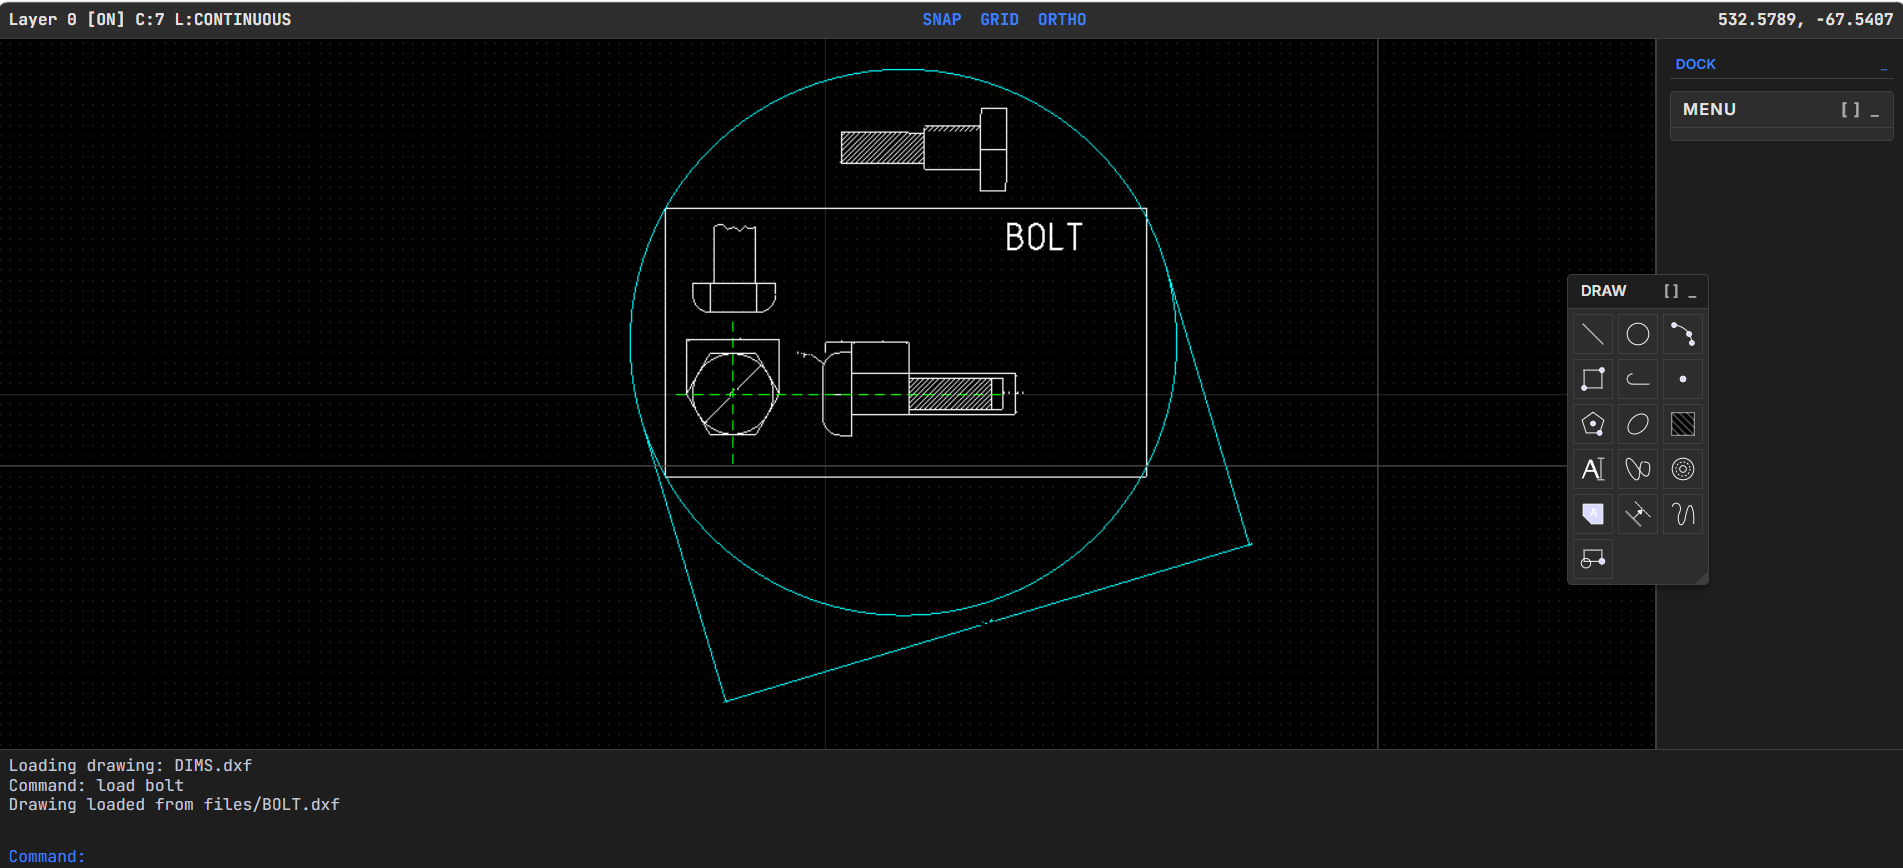
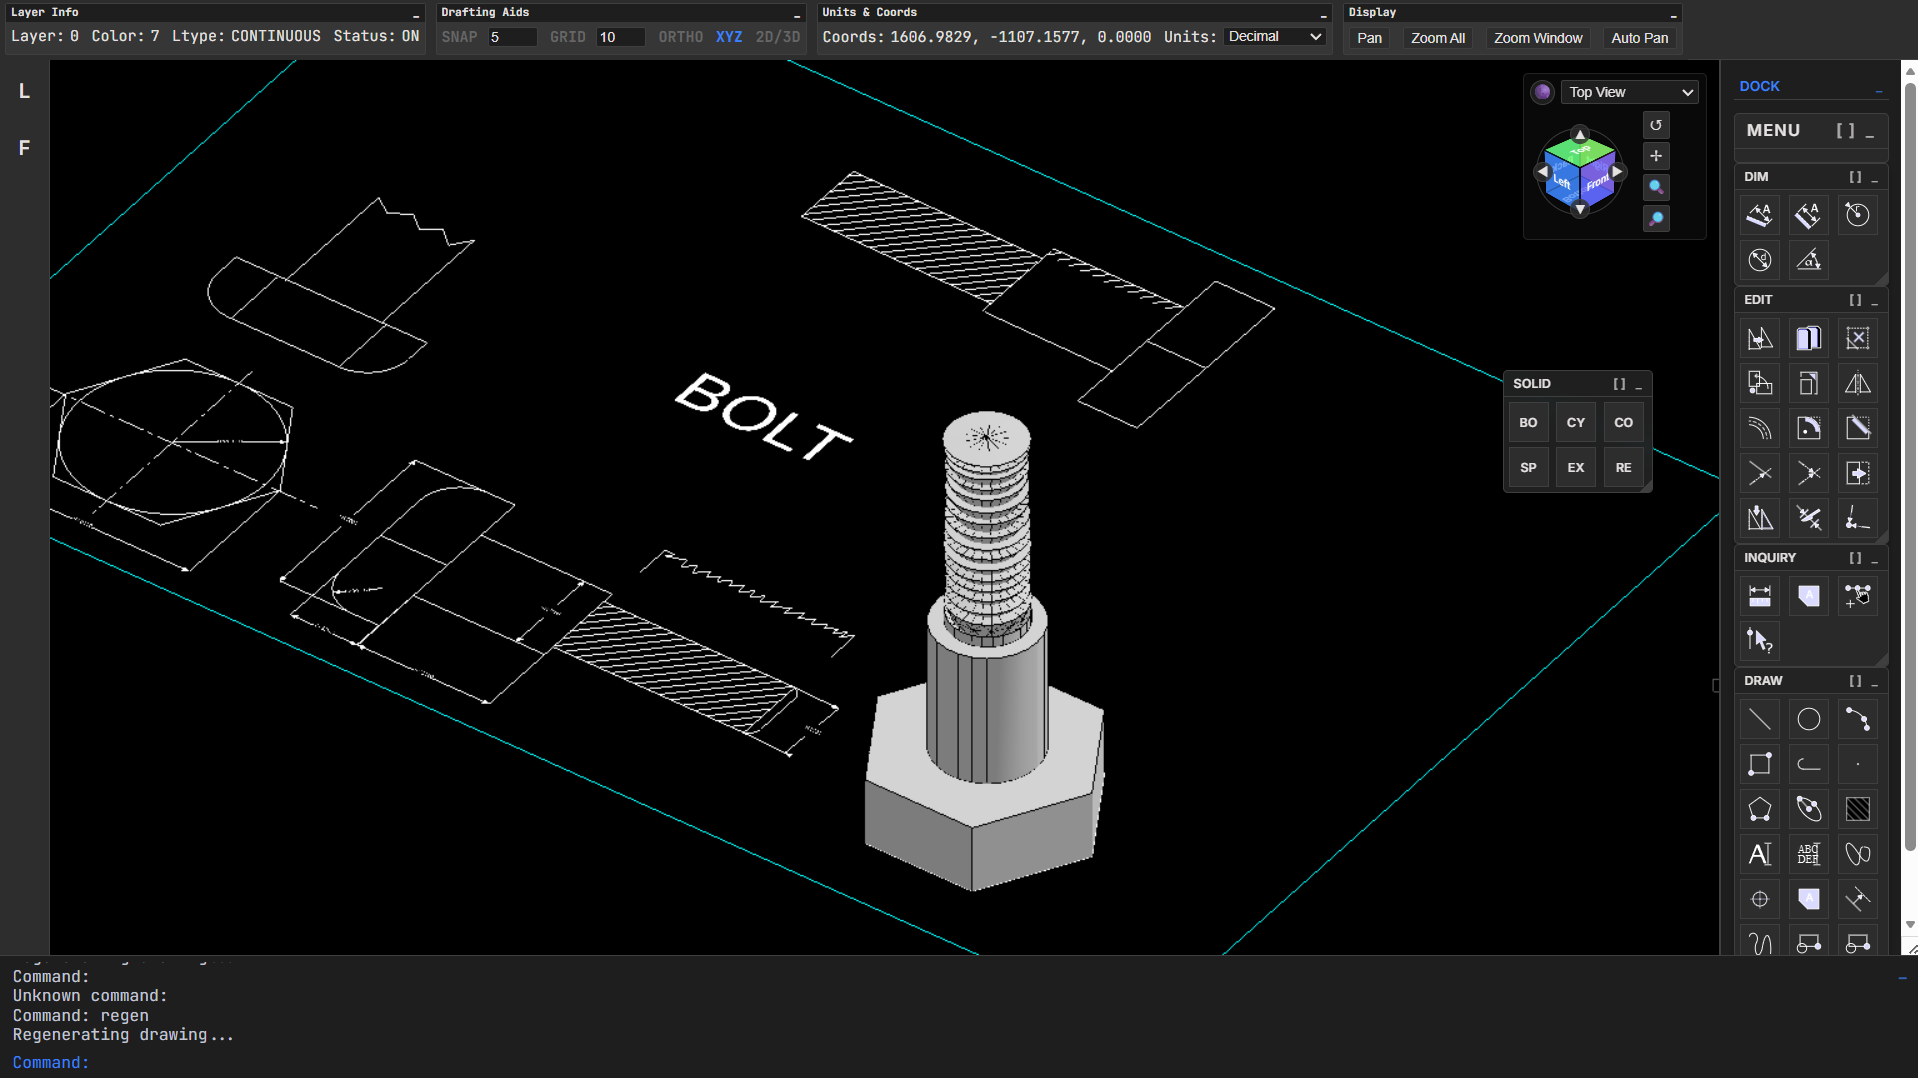
Implement 3D Boolean operations with rotation support

diff --git a/src/core/io/OCCWorker.ts b/src/core/io/OCCWorker.ts
@@ -18,6 +18,62 @@ function releaseShape(entityId: string) {
   }
 }
 
+function applyRotation(shape: any, rot: {x:number, y:number, z:number}, oc: any, center?: {x:number, y:number, z:number}) {
+  if (!rot || (rot.x === 0 && rot.y === 0 && rot.z === 0)) return shape;
+  
+  const transform = new oc.gp_Trsf_1();
+  
+  // 1. Translate to origin
+  const toOrigin = new oc.gp_Trsf_1();
+  const centerPt = center ? center : { x: 0, y: 0, z: 0 };
+  const vecToOrigin = new oc.gp_Vec_4(-centerPt.x, -centerPt.y, -centerPt.z);
+  toOrigin.SetTranslation_1(vecToOrigin);
+  
+  // 2. Rotate around origin
+  const rotTrsf = new oc.gp_Trsf_1();
+  
+  const rotX = new oc.gp_Trsf_1();
+  const originPnt = new oc.gp_Pnt_3(0,0,0);
+  rotX.SetRotation_1(new oc.gp_Ax1_2(originPnt, new oc.gp_Dir_4(1,0,0)), rot.x);
+  
+  const rotY = new oc.gp_Trsf_1();
+  rotY.SetRotation_1(new oc.gp_Ax1_2(originPnt, new oc.gp_Dir_4(0,1,0)), rot.y);
+  
+  const rotZ = new oc.gp_Trsf_1();
+  rotZ.SetRotation_1(new oc.gp_Ax1_2(originPnt, new oc.gp_Dir_4(0,0,1)), rot.z);
+  
+  rotTrsf.Multiply(rotZ);
+  rotTrsf.Multiply(rotY);
+  rotTrsf.Multiply(rotX);
+  
+  // 3. Translate back
+  const toBack = new oc.gp_Trsf_1();
+  const vecToBack = new oc.gp_Vec_4(centerPt.x, centerPt.y, centerPt.z);
+  toBack.SetTranslation_1(vecToBack);
+  
+  // Combine: toBack * rotTrsf * toOrigin
+  transform.Multiply(toBack);
+  transform.Multiply(rotTrsf);
+  transform.Multiply(toOrigin);
+  
+  const brepTransform = new oc.BRepBuilderAPI_Transform_2(shape, transform, true);
+  const newShape = brepTransform.Shape();
+  
+  // Cleanup
+  vecToOrigin.delete();
+  toOrigin.delete();
+  originPnt.delete();
+  rotX.delete();
+  rotY.delete();
+  rotZ.delete();
+  rotTrsf.delete();
+  vecToBack.delete();
+  toBack.delete();
+  transform.delete();
+  
+  return newShape;
+}
+
 self.onmessage = async (e) => {
   const { type, payload, id } = e.data;
 
@@ -503,7 +559,7 @@ self.onmessage = async (e) => {
       self.postMessage({ type: 'error', error: 'Not initialized', id });
       return;
     }
-    const { operation, idA, idB, entityId, deflection } = payload;
+    const { operation, idA, idB, entityId, deflection, rotA, rotB, centerA, centerB } = payload;
     try {
       if (!shapeCache.has(idA)) {
         throw new Error(`Shape not cached for solid A (id: ${idA}). Ensure solid was created in this session.`);
@@ -512,8 +568,11 @@ self.onmessage = async (e) => {
         throw new Error(`Shape not cached for solid B (id: ${idB}).`);
       }
 
-      const shapeA = shapeCache.get(idA);
-      const shapeB = shapeCache.get(idB);
+      const originalShapeA = shapeCache.get(idA);
+      const originalShapeB = shapeCache.get(idB);
+
+      const shapeA = applyRotation(originalShapeA, rotA, oc, centerA);
+      const shapeB = applyRotation(originalShapeB, rotB, oc, centerB);
 
       let boolBuilder: any;
       if (operation === 'fuse') {
@@ -542,12 +601,23 @@ self.onmessage = async (e) => {
       // Section 9: BRepCheck validation
       if (oc.BRepCheck_Analyzer) {
         const analyzer = new oc.BRepCheck_Analyzer(resultShape, true);
-        if (!analyzer.IsValid()) {
+        try {
+          // Check if method exists and is a function
+          const isValidFn = analyzer.IsValid || (analyzer as any).isValid;
+          if (typeof isValidFn === 'function') {
+            if (!isValidFn.call(analyzer)) {
+              analyzer.delete();
+              boolBuilder.delete();
+              throw new Error(`Boolean ${operation} produced an invalid/degenerate shape`);
+            }
+          } else {
+            console.warn(`BRepCheck_Analyzer exists but IsValid is not a function. Methods:`, Object.getOwnPropertyNames(Object.getPrototypeOf(analyzer)));
+          }
+        } catch (e: any) {
+          console.warn(`BRepCheck validation skipped due to error:`, e.message);
+        } finally {
           analyzer.delete();
-          boolBuilder.delete();
-          throw new Error(`Boolean ${operation} produced an invalid/degenerate shape`);
         }
-        analyzer.delete();
       }
 
       if (entityId) {
@@ -560,6 +630,8 @@ self.onmessage = async (e) => {
         resultShape.delete();
       }
       boolBuilder.delete();
+      if (shapeA !== originalShapeA) shapeA.delete();
+      if (shapeB !== originalShapeB) shapeB.delete();
 
       self.postMessage({ type: 'createBoolean', success: true, payload: geometryData, id });
     } catch (error: any) {

diff --git a/src/core/commands/BooleanCommand.ts b/src/core/commands/BooleanCommand.ts
@@ -2,6 +2,7 @@ import { Command, CommandResponse } from "./types"
 import { UnitsConfig, IDocument } from "../model/Document"
 import { Solid3D } from "../model/Solid3D"
 import { OpenCascadeService } from "../io/OpenCascadeService.js"
+import * as THREE from 'three';
 
 export class BooleanCommand implements Command {
   step = 0
@@ -73,7 +74,40 @@ export class BooleanCommand implements Command {
     const deflection = 0.1 / facetres
     
     console.log(`[BooleanCommand] Executing ${this.operation} on A: ${this.idA}, B: ${this.idB}`);
-    return this.occService.createBoolean(this.operation, this.idA, this.idB, id, deflection).then((geometry: any) => {
+    
+    const entityA = doc?.getEntity(this.idA!) as any;
+    const entityB = doc?.getEntity(this.idB!) as any;
+    const rotA = entityA?.rotation || { x: 0, y: 0, z: 0 };
+    const rotB = entityB?.rotation || { x: 0, y: 0, z: 0 };
+
+    const centerA = { x: 0, y: 0, z: 0 };
+    const centerB = { x: 0, y: 0, z: 0 };
+
+    if (entityA && entityA.positions) {
+      const geo = new THREE.BufferGeometry();
+      geo.setAttribute('position', new THREE.Float32BufferAttribute(entityA.positions, 3));
+      geo.computeBoundingBox();
+      const c = geo.boundingBox!.getCenter(new THREE.Vector3());
+      
+      const posA = entityA.position || { x: 0, y: 0, z: 0 };
+      centerA.x = c.x + posA.x;
+      centerA.y = c.y + posA.y;
+      centerA.z = c.z + posA.z;
+    }
+
+    if (entityB && entityB.positions) {
+      const geo = new THREE.BufferGeometry();
+      geo.setAttribute('position', new THREE.Float32BufferAttribute(entityB.positions, 3));
+      geo.computeBoundingBox();
+      const c = geo.boundingBox!.getCenter(new THREE.Vector3());
+      
+      const posB = entityB.position || { x: 0, y: 0, z: 0 };
+      centerB.x = c.x + posB.x;
+      centerB.y = c.y + posB.y;
+      centerB.z = c.z + posB.z;
+    }
+
+    return (this.occService as any).createBoolean(this.operation, this.idA, this.idB, id, deflection, rotA, rotB, centerA, centerB).then((geometry: any) => {
       const positions = Array.from(geometry.getAttribute('position').array) as number[]
       const indices = Array.from(geometry.getIndex()?.array || []) as number[]
       

diff --git a/src/core/io/OCCWorkerClient.ts b/src/core/io/OCCWorkerClient.ts
@@ -60,8 +60,8 @@ export class OCCWorkerClient {
     return this.send('createRevolve', { points, axisPoint, axisDir, angle, thickness, deflection, isClosed, entityId });
   }
 
-  createBoolean(operation: 'fuse' | 'cut' | 'common', idA: string, idB: string, entityId: string, deflection?: number): Promise<{ positions: number[], indices: number[] }> {
-    return this.send('createBoolean', { operation, idA, idB, entityId, deflection });
+  createBoolean(operation: 'fuse' | 'cut' | 'common', idA: string, idB: string, entityId: string, deflection?: number, rotA?: {x:number, y:number, z:number}, rotB?: {x:number, y:number, z:number}, centerA?: {x:number, y:number, z:number}, centerB?: {x:number, y:number, z:number}): Promise<{ positions: number[], indices: number[] }> {
+    return this.send('createBoolean', { operation, idA, idB, entityId, deflection, rotA, rotB, centerA, centerB });
   }
 
   transformShape(entityId: string, dx: number, dy: number, dz: number): Promise<void> {

diff --git a/src/core/io/OpenCascadeService.ts b/src/core/io/OpenCascadeService.ts
@@ -142,8 +142,8 @@ export class OpenCascadeService {
     
     return geometry;
   }
-  async createBoolean(operation: 'fuse' | 'cut' | 'common', idA: string, idB: string, entityId: string, deflection?: number): Promise<THREE.BufferGeometry> {
-    const data = await this.client.createBoolean(operation, idA, idB, entityId, deflection);
+  async createBoolean(operation: 'fuse' | 'cut' | 'common', idA: string, idB: string, entityId: string, deflection?: number, rotA?: {x:number, y:number, z:number}, rotB?: {x:number, y:number, z:number}, centerA?: {x:number, y:number, z:number}, centerB?: {x:number, y:number, z:number}): Promise<THREE.BufferGeometry> {
+    const data = await (this.client as any).createBoolean(operation, idA, idB, entityId, deflection, rotA, rotB, centerA, centerB);
     
     const geometry = new THREE.BufferGeometry();
     geometry.setAttribute('position', new THREE.Float32BufferAttribute(data.positions, 3));

diff --git a/tasks/lessons.md b/tasks/lessons.md
@@ -44,3 +44,6 @@
 - **Solid Persistence (STEP vs BREP)**: When saving shapes in OpenCascade.js, `BRepTools.Write` might fail with unbound types if it expects a C++ stream. If `STEPControl_Writer` is available, it is a more robust alternative for persisting shapes to the virtual filesystem using string filenames. Always try `Transfer` without the `Message_ProgressRange` parameter first as it might not be bound.
 
 - **Redundant Prompts in Menus**: Avoid asking for confirmation when a command is triggered from a menu where the user already made the choice (e.g., clicking "Begin a NEW drawing" in a menu shouldn't prompt "Start a new drawing? (Y/N)" again). Make commands immediate or support a silent mode for programmatic execution.
+- **3D Rotation Center in Boolean Operations:** When applying rotation to shapes in the worker for Boolean operations, do NOT rotate around the world origin `(0,0,0)` if the shape has been translated. This causes the shape to "orbit" away. Instead, translate the shape to the origin, apply rotation, and translate back to its center.
+- **Entity Position vs Vertices:** The `entity.positions` array (vertices) generated by the worker may not be updated when moving the object with a Gizmo in the main thread (only `entity.position` property changes). When calculating the center for worker operations, always add `entity.position` to the center calculated from `entity.positions` to get the true current position.
+- **Euler Angle Order:** When combining rotations in OpenCascade, be mindful of the order. To match Three.js default 'XYZ' intrinsic rotation, you should multiply transformations in order `Z * Y * X` (applied right to left) or use equivalent extrinsic order.

diff --git a/README.md b/README.md
@@ -57,6 +57,9 @@ A faithful CAD drafting experience, reimagined for the modern web using **TypeSc
 - **3D Gizmo**: Interactive translation and rotation gizmo for `Solid3D` entities.
 - **Proportional Scaling**: Gizmo size automatically scales based on the selected object's bounding box.
 - **Smart DXF I/O**: Manipulated position and rotation are saved to DXF (applying matrix transforms to vertices). Objects are intelligently grouped back on load using custom DXF XData.
+- **Boolean Operations**: Support for Union, Subtract, and Intersect operations on 3D Solids via OpenCascade.
+- **Rotation Preservation**: Boolean operations correctly preserve the position and rotation of operands by calculating the true center of shapes.
+- **Solid Toolbar**: Floating toolbar for quick access to Box, Cylinder, Sphere, and Boolean operations.
 
 ### 🖥 Authentic DOS UI
 -   **Main Menu:** Classic text-based startup screen with project management options.
